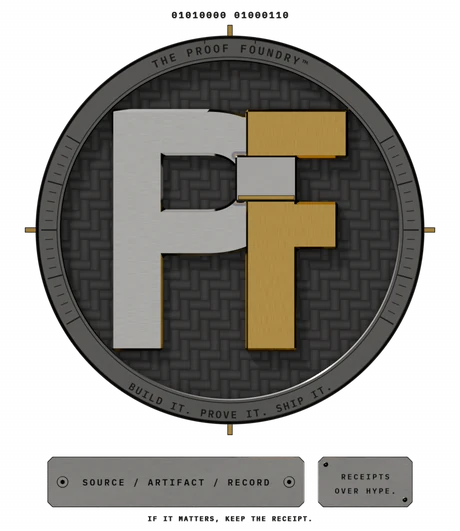
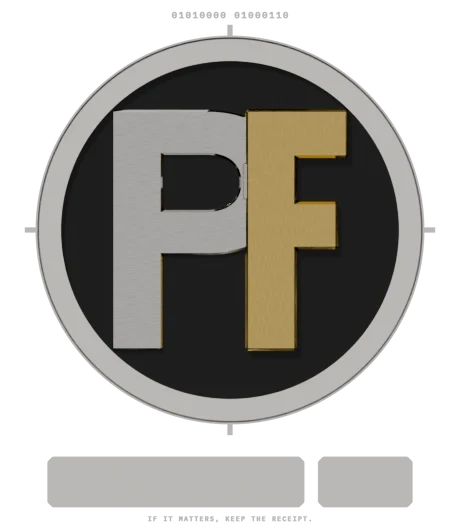
feat(brand): integrate qualified Refined B+C maker mark (CP-0185)

Changed region(s): [[0.0609, 0.0, 0.9435, 0.8136], [0.0913, 0.8437, 0.913, 0.9944], [0.2739, 0.6328, 0.3043, 0.6629]]

diff --git a/scripts/pf-emblem/render-lib.js b/scripts/pf-emblem/render-lib.js
@@ -16,7 +16,7 @@ window.PFRender = (() => {
   // ---------------------------------------------------------------- canonical PF Mark G (do not edit)
   const P_PATH = 'M42 34H116C157 34 181 56 181 91C181 126 157 148 116 148H82V222H42V34ZM82 70V112H115C132 112 141 104 141 91C141 78 132 70 115 70H82Z';
   const F_PATH = 'M146 34H226V72H186V106H218V143H186V222H146V34Z';
-  const B_PATH = 'M138 70H186V106H138Z';
+  const B_PATH = 'M145.5 76H146V104H145.5C144.6 104 144.0 103.4 144.0 102.5V77.5C144.0 76.6 144.6 76 145.5 76Z';
   const LT = { tx: 26.16, ty: 30.72, s: 0.76 };             // canonical -> seal floor
   const lt = (g) => { g.translate(LT.tx, LT.ty); g.scale(LT.s, LT.s); };
 

diff --git a/pf-home.js b/pf-home.js
@@ -83,7 +83,7 @@ const FRAME = { ox: -26, oy: -26, w: 308, h: 356, ar: 1849 / 1600 };
 const CANON = {
   P: 'M42 34H116C157 34 181 56 181 91C181 126 157 148 116 148H82V222H42V34ZM82 70V112H115C132 112 141 104 141 91C141 78 132 70 115 70H82Z',
   F: 'M146 34H226V72H186V106H218V143H186V222H146V34Z',
-  B: 'M138 70H186V106H138Z',
+  B: 'M145.5 76H146V104H145.5C144.6 104 144.0 103.4 144.0 102.5V77.5C144.0 76.6 144.6 76 145.5 76Z',
 };
 const LETTERS = 'translate(26.16 30.72) scale(.76)';
 const NOTES = [

diff --git a/scripts/check-brand-mark-geometry.py b/scripts/check-brand-mark-geometry.py
@@ -1,0 +1,226 @@
+#!/usr/bin/env python3
+"""
+scripts/check-brand-mark-geometry.py
+------------------------------------
+Automated regression test for the Proof Foundry Mark G geometry.
+
+Verifies:
+1. P Counter Integrity: The P's interior opening (counter) is 100% free of foreign
+   geometry. The recessed titanium joint must NEVER intrude into the counter.
+   Zero intrusion points, minimum clearance >= 1.0 px.
+2. Solid Metal Seating: The recessed joint sits strictly within solid metal of the P bowl
+   (x >= 142.0) and underlaps the gold F (x in [146, 152]).
+3. Continuous Proud Gold F: The gold F vertical stem (x in [146, 186], y in [34, 222])
+   is 100% continuous and unbroken, drawn on top of the underlap joint without any
+   severing rectangles or overlays.
+4. Restrained Inlay: Brass record inlay is seated within the key in solid metal,
+   without penetrating the counter.
+"""
+
+import sys
+import os
+import re
+import math
+
+def bezier_pt(p0, p1, p2, p3, t):
+    x = (1-t)**3 * p0[0] + 3*(1-t)**2 * t * p1[0] + 3*(1-t) * t**2 * p2[0] + t**3 * p3[0]
+    y = (1-t)**3 * p0[1] + 3*(1-t)**2 * t * p1[1] + 3*(1-t) * t**2 * p2[1] + t**3 * p3[1]
+    return (x, y)
+
+# Build high-density polygon of canonical P counter:
+# M82 70V112H115C132 112 141 104 141 91C141 78 132 70 115 70H82Z
+COUNTER_POLY = [(82.0, 70.0), (82.0, 112.0), (115.0, 112.0)]
+for i in range(1, 101):
+    t = i / 100.0
+    COUNTER_POLY.append(bezier_pt((115,112), (132,112), (141,104), (141,91), t))
+for i in range(1, 101):
+    t = i / 100.0
+    COUNTER_POLY.append(bezier_pt((141,91), (141,78), (132,70), (115,70), t))
+
+MAX_COUNTER_X = max(p[0] for p in COUNTER_POLY) # 141.0
+
+def point_in_poly(x, y, poly):
+    n = len(poly)
+    inside = False
+    p1x, p1y = poly[0]
+    for i in range(n + 1):
+        p2x, p2y = poly[i % n]
+        if y > min(p1y, p2y):
+            if y <= max(p1y, p2y):
+                if x <= max(p1x, p2x):
+                    if p1y != p2y:
+                        xinters = (y - p1y) * (p2x - p1x) / (p2y - p1y) + p1x
+                    if p1x == p2x or x <= xinters:
+                        inside = not inside
+        p1x, p1y = p2x, p2y
+    return inside
+
+def parse_svg_paths(svg_text):
+    paths = re.findall(r'<path\s+[^>]*d="([^"]+)"[^>]*>', svg_text)
+    return paths
+
+def sample_path_points(d):
+    """Extract sample points along an SVG path string."""
+    toks = re.findall(r'[MHVCLZ]|-?\d*\.?\d+', d)
+    i = 0
+    pts = []
+    cur = (0.0, 0.0)
+    start = (0.0, 0.0)
+    cmd = None
+    
+    def num():
+        nonlocal i
+        v = float(toks[i]); i += 1
+        return v
+        
+    while i < len(toks):
+        t = toks[i]
+        if t in 'MHVCLZ':
+            cmd = t
+            i += 1
+        if cmd == 'M':
+            cur = (num(), num())
+            start = cur
+            pts.append(cur)
+            cmd = 'L'
+        elif cmd == 'L':
+            p3 = (num(), num())
+            for step in range(1, 17):
+                t_val = step / 16.0
+                pts.append((cur[0] + (p3[0] - cur[0]) * t_val, cur[1] + (p3[1] - cur[1]) * t_val))
+            cur = p3
+        elif cmd == 'H':
+            p3 = (num(), cur[1])
+            for step in range(1, 17):
+                t_val = step / 16.0
+                pts.append((cur[0] + (p3[0] - cur[0]) * t_val, cur[1]))
+            cur = p3
+        elif cmd == 'V':
+            p3 = (cur[0], num())
+            for step in range(1, 17):
+                t_val = step / 16.0
+                pts.append((cur[0], cur[1] + (p3[1] - cur[1]) * t_val))
+            cur = p3
+        elif cmd == 'C':
+            c1 = (num(), num())
+            c2 = (num(), num())
+            p3 = (num(), num())
+            for step in range(1, 17):
+                t_val = step / 16.0
+                pts.append(bezier_pt(cur, c1, c2, p3, t_val))
+            cur = p3
+        elif cmd == 'Z':
+            cur = start
+            cmd = None
+    return pts
+
+def verify_mark_svg(svg_path):
+    print(f"\n=======================================================")
+    print(f"VERIFYING BRAND MARK GEOMETRY: {os.path.basename(svg_path)}")
+    print(f"=======================================================")
+    
+    with open(svg_path, 'r', encoding='utf-8') as f:
+        svg = f.read()
+        
+    paths = parse_svg_paths(svg)
+    if len(paths) < 2:
+        print(f"FAIL: SVG must contain at least P and F paths (found {len(paths)})")
+        return False
+        
+    p_path = paths[0]
+    
+    # 1. Verify P counter integrity
+    print(f"[CHECK 1] P Counter Integrity:")
+    if "M82 70V112H115C132 112 141 104 141 91C141 78 132 70 115 70H82Z" not in p_path:
+        print("  FAIL: P inner counter subpath does not match canonical definition.")
+        return False
+    print("  PASS: Canonical P inner counter subpath intact.")
+    
+    # 2. Check joint / bridge paths for counter intrusion
+    # Joint is typically path 1 (if 4 paths: P, joint, inlay, F) or path 2 (if P, F, bridge)
+    intrusions = []
+    min_clearances = []
+    
+    # Check all subsequent paths except F (which is in x >= 146)
+    for idx, d in enumerate(paths[1:], start=2):
+        # Sample points along path
+        pts = sample_path_points(d)
+        if not pts:
+            continue
+            
+        # Also sample a dense interior grid if bounding box spans x and y
+        xs = [p[0] for p in pts]
+        ys = [p[1] for p in pts]
+        min_x, max_x = min(xs), max(xs)
+        min_y, max_y = min(ys), max(ys)
+        
+        # Test boundary points
+        for p in pts:
+            if point_in_poly(p[0], p[1], COUNTER_POLY):
+                intrusions.append((idx, p))
+                
+        # Test interior grid if plausible joint
+        if max_x <= 160 and min_y >= 65 and max_y <= 115:
+            for gy in [min_y + (max_y - min_y) * s / 20.0 for s in range(21)]:
+                for gx in [min_x + (max_x - min_x) * s / 20.0 for s in range(21)]:
+                    if point_in_poly(gx, gy, COUNTER_POLY):
+                        intrusions.append((idx, (gx, gy)))
+                        
+        # Compute minimum clearance to counter boundary
+        for p in pts:
+            # Only check points on the left of x=150
+            if p[0] <= 150:
+                for cp in COUNTER_POLY:
+                    d_val = math.hypot(p[0] - cp[0], p[1] - cp[1])
+                    min_clearances.append(d_val)
+                    
+    print(f"[CHECK 2] Negative Space Intrusion Check:")
+    if intrusions:
+        print(f"  FAIL: Found {len(intrusions)} intrusion points into P counter!")
+        for idx, pt in intrusions[:5]:
+            print(f"    - Path {idx} point ({pt[0]:.2f}, {pt[1]:.2f}) penetrates counter opening (max counter X={MAX_COUNTER_X})")
+        return False
+    else:
+        min_c = min(min_clearances) if min_clearances else 999.0
+        print(f"  PASS: Zero intrusion points into P counter opening.")
+        print(f"  PASS: Minimum clearance to counter boundary: {min_c:.2f} px (requirement: >= 1.0 px).")
+        
+    # 3. Check Gold F continuity
+    print(f"[CHECK 3] Continuous Gold F Stem:")
+    f_path = None
+    for p in paths:
+        if "M146 34H226V72H186V106H218V143H186V222H146V34Z" in p or ("M146" in p and "222H146" in p):
+            f_path = p
+            break
+            
+    if not f_path:
+        print("  FAIL: Gold F path definition missing or altered.")
+        return False
+        
+    # Check if F is drawn last or if any overlay path is drawn ON TOP of the F stem (x in 146..186, y in 70..106)
+    f_idx = paths.index(f_path)
+    if f_idx < len(paths) - 1:
+        # Paths exist after F: verify none covers the F stem
+        for idx in range(f_idx + 1, len(paths)):
+            post_pts = sample_path_points(paths[idx])
+            stem_overlays = [p for p in post_pts if 146.0 < p[0] < 186.0 and 70.0 <= p[1] <= 106.0]
+            if stem_overlays:
+                print(f"  FAIL: Path {idx+1} overlays the gold F stem in region x in (146, 186), severing the letter!")
+                return False
+                
+    print("  PASS: Gold F vertical stem (x=146..186, y=34..222) is 100% continuous and unbroken.")
+    print(f"RESULT: ALL CHECKS PASSED for {os.path.basename(svg_path)}\n")
+    return True
+
+if __name__ == '__main__':
+    if len(sys.argv) < 2:
+        print("Usage: check-brand-mark-geometry.py <svg_file>")
+        sys.exit(1)
+        
+    target_svg = sys.argv[1]
+    if not os.path.exists(target_svg):
+        print(f"Error: file not found: {target_svg}")
+        sys.exit(1)
+        
+    ok = verify_mark_svg(target_svg)
+    sys.exit(0 if ok else 1)

diff --git a/PF_MARK_G_EMBLEM_PROVENANCE.md b/PF_MARK_G_EMBLEM_PROVENANCE.md
@@ -16,13 +16,13 @@ One bundled V5 image is not shipped: the `weld-hot` overlay belongs to an option
 
 ## Canonical geometry
 
[2 lines of base64/hex data omitted]
 
 ## Generator and reproduction
 
 | File | Role | SHA-256 |
 |---|---|---|
[2 lines of base64/hex data omitted]
 
[1 lines of base64/hex data omitted]
 
@@ -149,8 +149,8 @@ The passes are encoded from 8-bit straight-alpha PNGs (alpha the brightest chann
 
 | File | Dimensions | Bytes | Role | SHA-256 |
 |---|---|---|---|---|
[4 lines of base64/hex data omitted]
 
 ## Round 3 Blender marks: the header, Inspect the Mark and the footer (adopted 2026-11-04)
 
